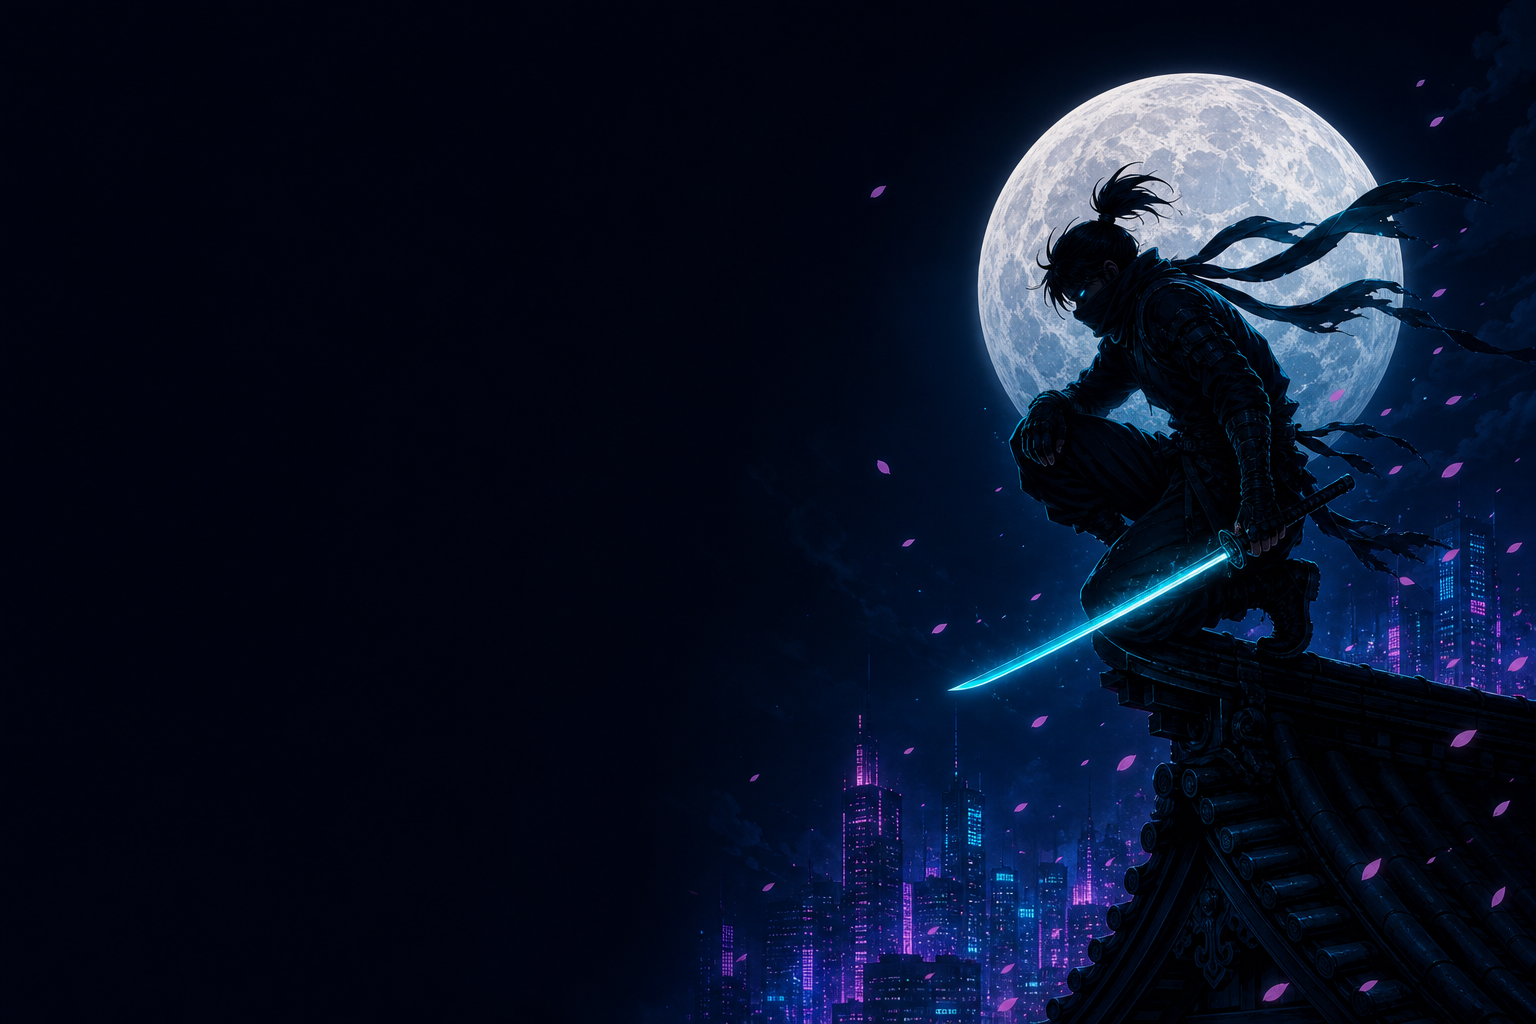
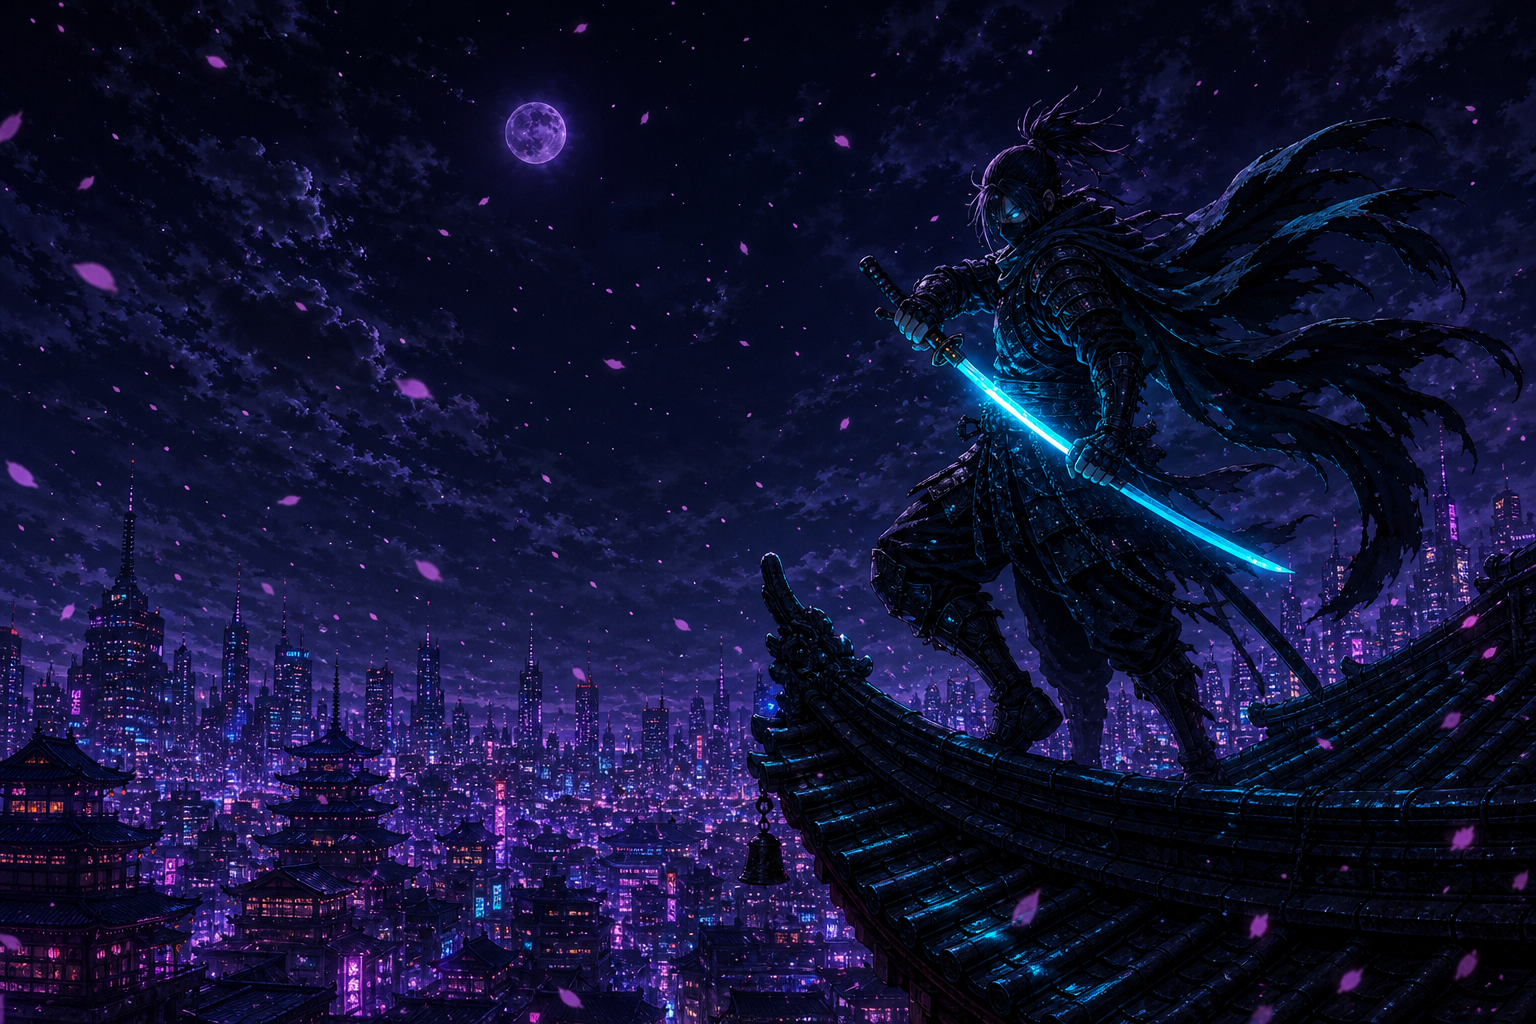
0.2.0: rewrite token layer for full-surface coverage and a far more visible backdrop
- also override the --dsw-static-neutral-bluish-* surface scale: sidebar,
  cards, and third-party panels read statics directly and bypassed the alias
  layer, which left them in stock gray
- every override carries a {light, dark} pair that restates the stock value
  on the scheme it should not touch
- cover borders l1-l4, elevated/floating/ghost/toolbar buttons, overlay/
  toast/tooltip, markdown/code, skeleton, multi-select
- drop surface alphas to 0.45-0.72 and nearly remove the backdrop dimming
  gradient so the artwork reads through
- regenerate ninja-dark.png: full-width cyberpunk skyline, dim violet moon,
  detail in every region so no area renders as flat black

diff --git a/client/client.js b/client/client.js
@@ -7,41 +7,97 @@ window.__ModuleLoader__.load({ id: "dsh-skin-nebula", factory: (require) => {
 	const name = "dsh-skin-nebula";
 	const inject = ["theme"];
 
-	// Alias-token override layer, composed on top of the active built-in theme.
-	// Surfaces are semi-transparent so the fixed nebula backdrop shows through;
-	// overlays stay near-opaque so menus and dialogs remain readable.
-	const TOKENS = {
-		"--dsw-alias-bg-base": { light: "rgba(247, 250, 255, 0.55)", dark: "rgba(6, 9, 20, 0.60)" },
-		"--dsw-alias-bg-layer-1": { light: "rgba(255, 255, 255, 0.78)", dark: "rgba(11, 16, 32, 0.72)" },
-		"--dsw-alias-bg-layer-2": { light: "rgba(255, 255, 255, 0.84)", dark: "rgba(15, 21, 40, 0.78)" },
-		"--dsw-alias-bg-layer-3": { light: "rgba(255, 255, 255, 0.90)", dark: "rgba(20, 28, 52, 0.88)" },
-		"--dsw-alias-bg-module-platform": { light: "rgba(255, 255, 255, 0.82)", dark: "rgba(18, 25, 47, 0.84)" },
-		"--dsw-alias-bg-overlay": { light: "rgba(255, 255, 255, 0.97)", dark: "rgba(21, 29, 54, 0.97)" },
-		"--dsw-alias-border-l1": { light: "rgba(8, 145, 178, 0.12)", dark: "rgba(34, 211, 238, 0.10)" },
-		"--dsw-alias-border-l2": { light: "rgba(8, 145, 178, 0.22)", dark: "rgba(34, 211, 238, 0.20)" },
+	// Every override is a { light, dark } pair; where a token should keep the
+	// product default in one scheme, that side restates the stock value so the
+	// other scheme's skin never bleeds across.
+
+	// ---- static scale --------------------------------------------------------
+	// Sidebar, cards, and third-party panels read --dsw-static-neutral-bluish-*
+	// directly, bypassing the alias layer, so the surface end of the scale is
+	// retinted here. Dark-end statics keep their stock value in light mode and
+	// vice versa; text/icon statics (200-700, 1000) are left untouched.
+	const STATIC_TOKENS = {
+		// dark-mode surfaces → translucent deep navy
+		"--dsw-static-neutral-bluish-950": { light: "rgb(21, 21, 23)", dark: "rgba(7, 10, 22, 0.55)" },
+		"--dsw-static-neutral-bluish-900": { light: "rgb(27, 27, 28)", dark: "rgba(9, 13, 28, 0.55)" },
+		"--dsw-static-neutral-bluish-875": { light: "rgb(35, 35, 36)", dark: "rgba(12, 17, 34, 0.60)" },
+		"--dsw-static-neutral-bluish-850": { light: "rgb(44, 44, 46)", dark: "rgba(16, 22, 42, 0.62)" },
+		"--dsw-static-neutral-bluish-800": { light: "rgb(53, 54, 56)", dark: "rgba(21, 29, 54, 0.72)" },
+		"--dsw-static-neutral-bluish-750": { light: "rgb(67, 69, 74)", dark: "rgba(28, 38, 68, 0.80)" },
+		// light-mode surfaces → translucent cool white
+		"--dsw-static-neutral-bluish-00": { light: "rgba(255, 255, 255, 0.62)", dark: "rgb(255, 255, 255)" },
+		"--dsw-static-neutral-bluish-50": { light: "rgba(249, 251, 255, 0.66)", dark: "rgb(249, 250, 251)" },
+		"--dsw-static-neutral-bluish-60": { light: "rgba(246, 249, 255, 0.70)", dark: "rgb(249, 250, 251)" },
+		"--dsw-static-neutral-bluish-75": { light: "rgba(243, 247, 255, 0.72)", dark: "rgb(241, 243, 245)" },
+		"--dsw-static-neutral-bluish-100": { light: "rgba(240, 246, 255, 0.75)", dark: "rgb(235, 238, 242)" },
+		"--dsw-static-neutral-bluish-150": { light: "rgba(238, 244, 255, 0.90)", dark: "rgb(233, 236, 242)" },
+	};
+
+	// ---- alias layer ---------------------------------------------------------
+	const ALIAS_TOKENS = {
+		// surfaces: transparent enough that the artwork reads through
+		"--dsw-alias-bg-base": { light: "rgba(247, 250, 255, 0.45)", dark: "rgba(6, 9, 20, 0.45)" },
+		"--dsw-alias-bg-layer-1": { light: "rgba(255, 255, 255, 0.55)", dark: "rgba(11, 16, 32, 0.55)" },
+		"--dsw-alias-bg-layer-2": { light: "rgba(255, 255, 255, 0.62)", dark: "rgba(15, 21, 40, 0.60)" },
+		"--dsw-alias-bg-layer-3": { light: "rgba(255, 255, 255, 0.72)", dark: "rgba(20, 28, 52, 0.72)" },
+		"--dsw-alias-bg-module-platform": { light: "rgba(255, 255, 255, 0.60)", dark: "rgba(18, 25, 47, 0.62)" },
+		// overlays/menus stay near-opaque for readability, tinted navy
+		"--dsw-alias-bg-overlay": { light: "rgba(252, 254, 255, 0.97)", dark: "rgba(20, 28, 52, 0.96)" },
+		"--dsw-alias-toast-bg": { light: "rgba(252, 254, 255, 0.97)", dark: "rgba(16, 22, 42, 0.96)" },
+		"--dsw-alias-tooltip-bg": { light: "rgba(30, 41, 59, 0.95)", dark: "rgba(16, 22, 42, 0.96)" },
+		"--dsw-alias-bg-multi-select": { light: "rgba(8, 145, 178, 0.10)", dark: "rgba(34, 211, 238, 0.14)" },
+		"--dsw-alias-bg-skeleton": { light: "rgba(8, 145, 178, 0.08)", dark: "rgba(34, 211, 238, 0.08)" },
+		// borders: cyan-tinted
+		"--dsw-alias-border-l1": { light: "rgba(8, 145, 178, 0.14)", dark: "rgba(34, 211, 238, 0.12)" },
+		"--dsw-alias-border-l2": { light: "rgba(8, 145, 178, 0.24)", dark: "rgba(34, 211, 238, 0.22)" },
+		"--dsw-alias-border-l2-darkmode-thin": { light: "rgba(8, 145, 178, 0.24)", dark: "rgba(34, 211, 238, 0.18)" },
+		"--dsw-alias-border-l3": { light: "rgba(8, 145, 178, 0.32)", dark: "rgba(34, 211, 238, 0.30)" },
+		"--dsw-alias-border-l4": { light: "rgba(8, 145, 178, 0.45)", dark: "rgba(34, 211, 238, 0.42)" },
+		// brand + primary actions: neon cyan
 		"--dsw-alias-brand-primary": { light: "rgb(8, 145, 178)", dark: "rgb(34, 211, 238)" },
 		"--dsw-alias-brand-text": { light: "rgb(14, 116, 144)", dark: "rgb(103, 232, 249)" },
 		"--dsw-alias-button-primary-hover": { light: "rgb(14, 116, 144)", dark: "rgb(103, 232, 249)" },
-		"--dsw-alias-interactive-bg-hover": { light: "rgba(8, 145, 178, 0.08)", dark: "rgba(34, 211, 238, 0.10)" },
-		"--dsw-alias-interactive-bg-active": { light: "rgba(8, 145, 178, 0.14)", dark: "rgba(34, 211, 238, 0.16)" },
-		"--dsw-alias-markdown-code-block": { light: "rgba(240, 246, 254, 0.9)", dark: "rgba(9, 13, 27, 0.85)" },
+		"--dsw-alias-button-primary-dimmed": { light: "rgba(8, 145, 178, 0.45)", dark: "rgba(34, 211, 238, 0.45)" },
+		// secondary buttons and hovers: navy/cyan family
+		"--dsw-alias-button-elevated-fill": { light: "rgba(255, 255, 255, 0.70)", dark: "rgba(24, 33, 60, 0.75)" },
+		"--dsw-alias-button-floating-fill": { light: "rgba(255, 255, 255, 0.80)", dark: "rgba(24, 33, 60, 0.85)" },
+		"--dsw-alias-button-floating-hover": { light: "rgba(240, 248, 255, 0.90)", dark: "rgba(32, 44, 78, 0.90)" },
+		"--dsw-alias-button-ghost-active-border": { light: "rgba(8, 145, 178, 0.50)", dark: "rgba(34, 211, 238, 0.50)" },
+		"--dsw-alias-button-ghost-active-fill": { light: "rgba(8, 145, 178, 0.10)", dark: "rgba(34, 211, 238, 0.12)" },
+		"--dsw-alias-button-ghost-active-hover": { light: "rgba(8, 145, 178, 0.16)", dark: "rgba(34, 211, 238, 0.18)" },
+		"--dsw-alias-button-tool-bar-fill": { light: "rgba(255, 255, 255, 0.65)", dark: "rgba(21, 29, 54, 0.70)" },
+		"--dsw-alias-button-tool-bar-hover": { light: "rgba(8, 145, 178, 0.12)", dark: "rgba(34, 211, 238, 0.14)" },
+		"--dsw-alias-interactive-bg-hover": { light: "rgba(8, 145, 178, 0.10)", dark: "rgba(34, 211, 238, 0.10)" },
+		"--dsw-alias-interactive-bg-active": { light: "rgba(8, 145, 178, 0.16)", dark: "rgba(34, 211, 238, 0.16)" },
+		"--dsw-alias-interactive-bg-hover-accent": { light: "rgba(8, 145, 178, 0.14)", dark: "rgba(34, 211, 238, 0.14)" },
+		"--dsw-alias-interactive-bg-hover-solid": { light: "rgba(228, 240, 250, 0.95)", dark: "rgba(28, 38, 68, 0.95)" },
+		// text: subtle cyan cast on secondary roles only; primary stays stock
+		"--dsw-alias-label-secondary": { light: "rgb(71, 96, 114)", dark: "rgb(158, 189, 212)" },
+		"--dsw-alias-label-primary-bluish": { light: "rgb(14, 116, 144)", dark: "rgb(103, 232, 249)" },
+		// markdown/code surfaces
+		"--dsw-alias-markdown-code-block": { light: "rgba(240, 246, 254, 0.75)", dark: "rgba(9, 13, 27, 0.72)" },
+		"--dsw-alias-markdown-code-block-banner": { light: "rgba(230, 240, 252, 0.85)", dark: "rgba(14, 19, 38, 0.85)" },
+		"--dsw-alias-markdown-inline-code": { light: "rgba(8, 145, 178, 0.10)", dark: "rgba(34, 211, 238, 0.12)" },
+		// scrollbars: cyan
 		"--dsw-alias-scrollbar-bg-l1": { light: "rgba(8, 145, 178, 0.25)", dark: "rgba(34, 211, 238, 0.25)" },
 		"--dsw-alias-scrollbar-hover-l1": { light: "rgba(8, 145, 178, 0.45)", dark: "rgba(34, 211, 238, 0.45)" },
 		"--dsw-alias-scrollbar-bg-l2": { light: "rgba(8, 145, 178, 0.25)", dark: "rgba(34, 211, 238, 0.25)" },
 		"--dsw-alias-scrollbar-hover-l2": { light: "rgba(8, 145, 178, 0.45)", dark: "rgba(34, 211, 238, 0.45)" },
 	};
 
+	const TOKENS = { ...STATIC_TOKENS, ...ALIAS_TOKENS };
+
 	// The backdrop is body-level so it needs no product DOM selectors; the theme
 	// presenter owns body[data-ds-dark-theme], which doubles as the scheme switch.
 	const CSS = [
 		"body {",
-		"  background-image: linear-gradient(rgba(247, 250, 255, 0.10), rgba(247, 250, 255, 0.30)), url('/skin-nebula/ninja-light.png');",
+		"  background-image: linear-gradient(rgba(247, 250, 255, 0), rgba(247, 250, 255, 0.15)), url('/skin-nebula/ninja-light.png');",
 		"  background-size: cover;",
 		"  background-position: center;",
 		"  background-attachment: fixed;",
 		"}",
 		"body[data-ds-dark-theme] {",
-		"  background-image: linear-gradient(rgba(4, 6, 14, 0.10), rgba(4, 6, 14, 0.40)), url('/skin-nebula/ninja-dark.png');",
+		"  background-image: linear-gradient(rgba(4, 6, 14, 0.02), rgba(4, 6, 14, 0.22)), url('/skin-nebula/ninja-dark.png');",
 		"}",
 	].join("\n");
 
